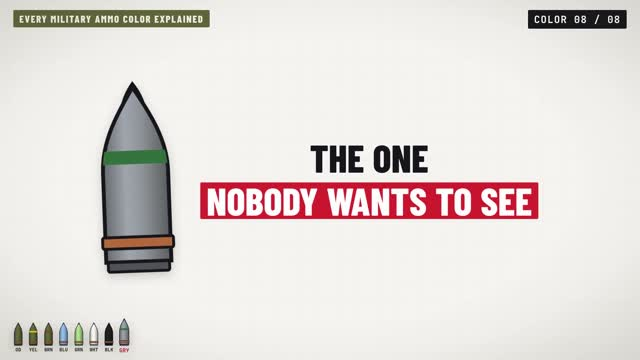
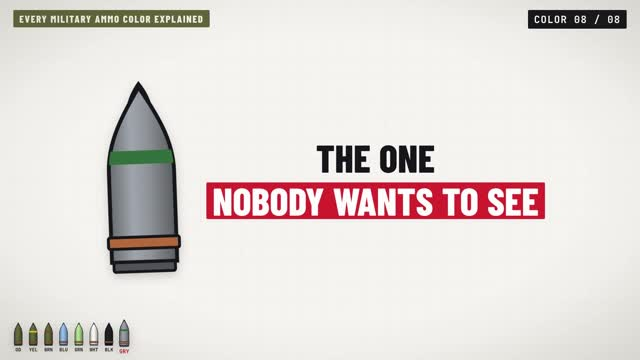
Ammo long-form: lineup drift fix, deduped sources, meta
Claude-Session: https://claude.ai/code/session_011tsuhG2ovBhE39HhF9RYuC

diff --git a/studio/07_render/src/ammo/MainAmmo.tsx b/studio/07_render/src/ammo/MainAmmo.tsx
@@ -54,7 +54,7 @@ const Shot: React.FC<{children: React.ReactNode; first: boolean; dur: number; se
   const blur = mode === 'fade' ? 0 : 12 * (1 - inP);
   let bump = 0;
   for (const e of ev || []) if (f >= e && f < e + 10) bump = Math.max(bump, 0.02 * (1 - (f - e) / 10));
-  const drift = kind === 'Lineup' ? 1 : 1 + 0.035 * t;
+  const drift = kind === 'Lineup' ? 1 + 0.05 * t : 1 + 0.035 * t;
   return (
     <AbsoluteFill style={{opacity: inP, filter: blur > 0.3 ? `blur(${blur}px)` : undefined, transform: `translateX(${inX + (kind === 'Lineup' ? 0 : dir * 12 * t)}px) scale(${inScale * drift * (1 + bump)})`}}>
       {children}

diff --git a/studio/08_thumbnails_titles/ammo/make_meta.py b/studio/08_thumbnails_titles/ammo/make_meta.py
@@ -17,7 +17,7 @@ open(os.path.join(HERE, 'captions.srt'), 'w').write('\n'.join(srt))
 names = {'o1': 'Olive drab: the base coat', 'y1': 'Yellow: high explosive', 'b1': 'Brown: low explosive', 'u1': 'Light blue: practice', 'g1': 'Light green: smoke', 'w1': 'White: illumination', 'k1': 'Black: armor defeating', 'r1': 'Gray: chemical', 'e2': 'The whole code'}
 ch = [f"{int(b['from'] / 30) // 60}:{int(b['from'] / 30) % 60:02d} {names[b['id']]}" for b in edl['beats'] if b['id'] in names]
 desc = ("Almost every American bomb and shell is olive drab — and that color means almost nothing. The real message is the stripe. Every color in the U.S. military ammunition color code (MIL-STD-709), from the yellow band on a live Mk 82 to the broken green band that marks a binary nerve agent.\n\nCHAPTERS\n"
-        + '\n'.join(ch) + "\n\nSimplified for explanation; based on public U.S. military standards and manuals listed below. Colors fade and other countries use different codes — never treat any found ordnance as safe. If you find something, leave it and call 911.\n\nSOURCES\n" + '\n'.join(sc['sources'].values()) + '\n')
+        + '\n'.join(ch) + "\n\nSimplified for explanation; based on public U.S. military standards and manuals listed below. Colors fade and other countries use different codes — never treat any found ordnance as safe. If you find something, leave it and call 911.\n\nSOURCES\n" + '\n'.join(dict.fromkeys(sc['sources'].values())) + '\n')
 open(os.path.join(HERE, 'description.txt'), 'w').write(desc)
 open(os.path.join(HERE, 'titles.txt'), 'w').write("A (use): Every Military Ammo Color Explained\nB: Every Bomb Color Explained\nC: What the Stripes on Military Bombs Actually Mean\n")
 print(n - 1, 'captions;', len(ch), 'chapters')
